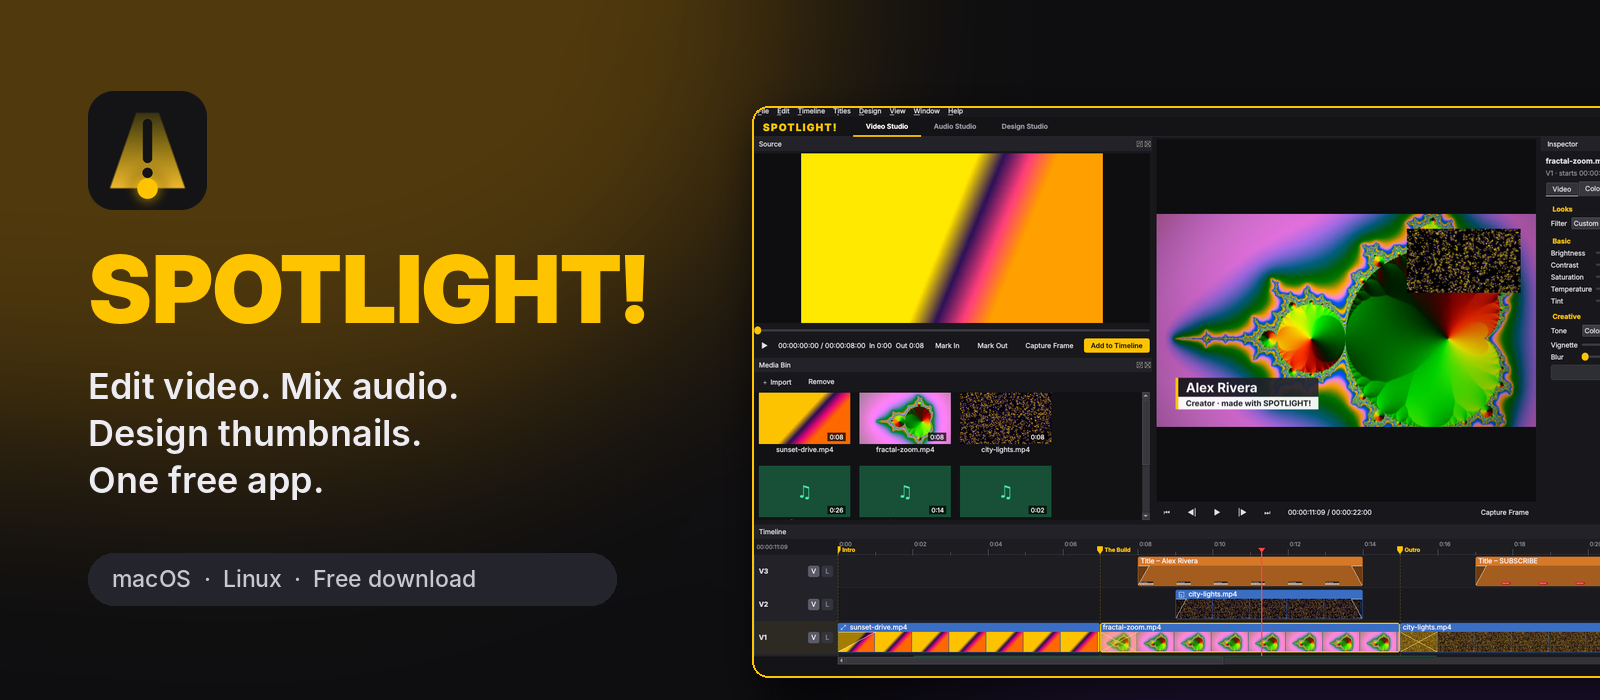
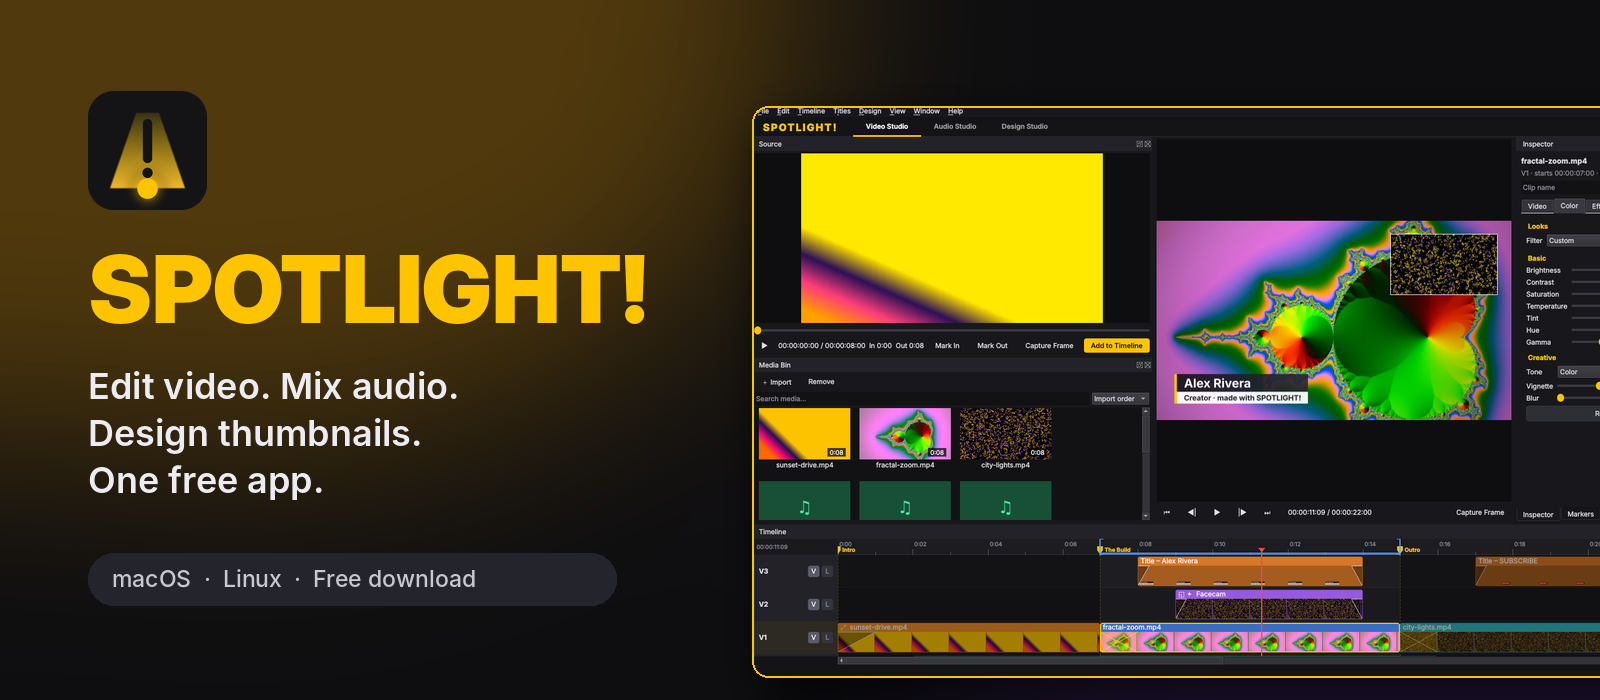
Version 0.3.0: docs, site and screenshots for the 50 new features
Also fixes invalid escapes in the entrance-animation FFmpeg expressions.

Claude-Session: https://claude.ai/code/session_011LJoQWnDZ6EukKVCGGmetC

diff --git a/docs/index.html b/docs/index.html
@@ -91,11 +91,13 @@ code { background: #22222a; padding: 2px 6px; border-radius: 6px; font-size: 13p
         <h3>🎬 Video Studio</h3>
         <ul class="feat">
           <li>Multitrack timeline with insert, overwrite, ripple and razor edits</li>
+          <li>Pro keys: ripple trim (Q/W), In/Out with lift &amp; extract, J/K/L shuttle, match frame</li>
           <li>Layered compositing: picture-in-picture, split screen and overlays</li>
           <li>16 transitions: dissolves, wipes, slides, iris and zoom</li>
           <li>Titles and lower thirds in 8 styles, plus SRT captions</li>
           <li>Speed 0.1×–8×, reverse and freeze frame</li>
           <li>One-click looks, color controls, green screen and Ken Burns</li>
+          <li>Effects: blur fill for vertical clips, cinema bars, grain, pixelate, PIP borders, slide &amp; pop entrances</li>
           <li>Auto-Clip: finds the best moments in long videos and VODs and exports them as Shorts</li>
           <li>Remove silences, scene detection, beat markers, auto reframe to 9:16</li>
         </ul>
@@ -110,7 +112,8 @@ code { background: #22222a; padding: 2px 6px; border-radius: 6px; font-size: 13p
         <ul class="feat">
           <li>Waveform timeline and mixer with volume, pan, mute and solo</li>
           <li>Denoise, noise gate, de-esser, EQ, compressor and limiter</li>
-          <li>Voice changer, reverb and echo</li>
+          <li>Voice changer, telephone, chorus, filters, reverb and echo</li>
+          <li>Tempo (BPM) detection, loudness meter and stem export</li>
           <li>Auto-ducking: the music drops under your voice automatically</li>
           <li>Record audio from any mic, with a live level meter, count-in and unlimited takes</li>
           <li>Loudness targets for YouTube (−14 LUFS) and podcasts (−16 LUFS)</li>
@@ -127,7 +130,8 @@ code { background: #22222a; padding: 2px 6px; border-radius: 6px; font-size: 13p
           <li>Layers of images, text, shapes and brush drawings</li>
           <li>Blend modes, drop shadow, outer glow and stroke</li>
           <li>Background removal, crop, fade masks, hue, blur and B&amp;W</li>
-          <li>Thumbnail templates and YouTube safe-zone guides</li>
+          <li>8 thumbnail templates, smart resize and YouTube safe-zone guides</li>
+          <li>Gradient text, photo tint, speech bubbles, zoom, pan and smart snapping</li>
           <li>Grab any video frame, and send any design back to the timeline</li>
         </ul>
       </div>
@@ -145,7 +149,9 @@ code { background: #22222a; padding: 2px 6px; border-radius: 6px; font-size: 13p
       <div class="card"><b>📱 Shorts-ready</b><span>Auto Reframe turns a 16:9 edit into 9:16, 1:1 or 4:5. Export presets cover YouTube, TikTok, Reels and Instagram.</span></div>
       <div class="card"><b>🎵 Cut on the beat</b><span>Drop beat markers at your song's BPM, or tap the tempo, and clips snap to them.</span></div>
       <div class="card"><b>👀 The preview matches the export</b><span>The monitor composites tracks, looks, keys and transitions exactly as the renderer does.</span></div>
-      <div class="card"><b>💾 Never lose work</b><span>Autosave, crash recovery, unlimited undo and automatic media relinking.</span></div>
+      <div class="card"><b>💾 Never lose work</b><span>Autosave, crash recovery, unlimited undo, automatic media relinking and the last 10 saves kept as backups.</span></div>
+      <div class="card"><b>📑 YouTube chapters</b><span>Drop markers while you edit and copy a ready-made chapter list into your video description.</span></div>
+      <div class="card"><b>🔎 Command palette</b><span>Press Ctrl+K and type: every command in the app is one search away.</span></div>
       <div class="card"><b>⌨ Your shortcuts</b><span>Remap every shortcut and save custom panel layouts for each studio.</span></div>
     </div>
   </div>

diff --git a/tools/screenshots.cpp b/tools/screenshots.cpp
@@ -186,6 +186,11 @@ int main(int argc, char *argv[])
         pc->transform.x = 0.31;
         pc->transform.y = -0.28;
         pc->fadeIn = pc->fadeOut = 300 * kUsPerSecond / 1000;
+        pc->fx.border = 0.012;
+        pc->name = QStringLiteral("Facecam");
+        pc->colorLabel = 7;
+        d.clipById(v1a)->colorLabel = 2;
+        d.clipById(v1c)->colorLabel = 5;
         const int v3 = d.addTrack(TrackType::Video, QStringLiteral("V3"));
         const QUuid lt = timeline::placeMedia(d, lowerThird.id, v3, 8 * kUsPerSecond, 0, 6 * kUsPerSecond);
         d.clipById(lt)->fadeIn = d.clipById(lt)->fadeOut = 300 * kUsPerSecond / 1000;
@@ -229,6 +234,8 @@ int main(int argc, char *argv[])
         timeline::toggleMarker(d, 0, 0, QStringLiteral("Intro"));
         timeline::toggleMarker(d, 7 * kUsPerSecond, 0, QStringLiteral("The Build"));
         timeline::toggleMarker(d, 15 * kUsPerSecond, 0, QStringLiteral("Outro"));
+        d.inPoint = 7 * kUsPerSecond;
+        d.outPoint = 15 * kUsPerSecond;
     });
 
     // ---- Design: capture a frame, apply a template, write our own copy ----

diff --git a/src/core/exporter.cpp b/src/core/exporter.cpp
@@ -204,8 +204,8 @@ MotionExpr motionExpr(Motion m, TimeUs duration)
     case Motion::SlideInUp:
     case Motion::PopIn: {
         // Mirrors motionAt(): e0 = linear progress, rem = (1-e0)^3 = 1 - eased.
-        const QString e0 = QStringLiteral("min(max(t/%1\,0)\,1)").arg(num(kEntranceSeconds));
-        const QString rem = QStringLiteral("pow(1-%1\,3)").arg(e0);
+        const QString e0 = QStringLiteral("min(max(t/%1\\,0)\\,1)").arg(num(kEntranceSeconds));
+        const QString rem = QStringLiteral("pow(1-%1\\,3)").arg(e0);
         if (m == Motion::SlideInLeft)
             e.fx = QStringLiteral("(-%1)").arg(rem);
         else if (m == Motion::SlideInRight)
@@ -213,7 +213,7 @@ MotionExpr motionExpr(Motion m, TimeUs duration)
         else if (m == Motion::SlideInUp)
             e.fy = rem;
         else
-            e.zoom = QStringLiteral("if(lt(%1\,0.7)\,0.6+0.5*%1/0.7\,1.1-0.1*(%1-0.7)/0.3)").arg(e0);
+            e.zoom = QStringLiteral("if(lt(%1\\,0.7)\\,0.6+0.5*%1/0.7\\,1.1-0.1*(%1-0.7)/0.3)").arg(e0);
         break;
     }
     }

diff --git a/README.md b/README.md
@@ -22,6 +22,12 @@ mix its audio, then design its thumbnail, all in **one project**.
 ### 🎬 Video Studio (Premiere / CapCut / Filmora)
 - **Multitrack timeline** with move, trim, split (razor), ripple delete, **insert edits**, **close gaps**,
   snapping, linked audio/video, copy/paste/duplicate and markers.
+- **Pro editing keys:** ripple trim to the playhead (`Q`/`W`), jump between edit points (`↑`/`↓`), **In/Out
+  points** (`I`/`O`) with **lift** and **extract**, one-frame **nudge**, **match frame** (`F`), **J/K/L shuttle**,
+  **loop playback** and **go to timecode** (`Ctrl+G`).
+- **Organize clips:** color labels, clip names, enable/disable (`Shift+E`), **replace clip** with bin media and
+  **paste attributes** (look, transform, effects, audio) onto many clips at once.
+- **Markers panel:** rename, jump and delete markers, and turn them into **YouTube chapters** for your description.
 - **Layered compositing.** Upper tracks sit on top of lower ones, so you can do **picture-in-picture**,
   **split screen**, overlays and logos.
 - **Transform** any clip: scale, position, rotation, opacity, flip and crop. One-click PIP and split-screen layouts.
@@ -33,6 +39,9 @@ mix its audio, then design its thumbnail, all in **one project**.
 - **Looks / filters:** Warm, Cool, Vivid, Cinematic, Vintage, Faded, Moody, Dreamy, B&W, Noir and Sepia. You can
   also fine-tune brightness, contrast, saturation, temperature, tint, vignette and blur.
 - **Chroma key** (green and blue screen), **Ken Burns** zoom and pan, and **stabilization**.
+- **Effects:** sharpen, film grain, pixelate (censor), invert, **cinema bars**, hue and gamma, plus **blur fill**
+  (the blurred background behind vertical clips) and a **border** for picture-in-picture.
+- **Entrance animations:** slide in from the left, right or bottom, and pop in.
 - **Auto-Clip for videos and stream VODs:** import a long video and SPOTLIGHT! finds the moments worth clipping
   (big reactions, hype, laughter, fast action) on its own. Review the clips with thumbnails and a preview, then
   add them to the timeline as a highlight reel or export each one, ready for Shorts, TikTok and Reels as vertical
@@ -41,35 +50,48 @@ mix its audio, then design its thumbnail, all in **one project**.
   (BPM or tap tempo) and **Auto Reframe** to 9:16, 1:1 or 4:5 for Shorts, Reels and TikTok.
 - The preview **matches the export**. The Program Monitor composites tracks, looks, keys and transitions the same
   way the renderer does.
-- **Export presets:** YouTube 1080p/4K, Shorts/Reels/TikTok, Instagram, H.265 archive, WebM, podcast MP3 and
-  WAV. Includes loudness normalization to −14 / −16 LUFS.
+- **Export presets:** YouTube 1080p/4K, Shorts/Reels/TikTok, Instagram, H.265 archive, WebM, **animated GIF**,
+  podcast MP3 and WAV. Includes loudness normalization to −14 / −16 LUFS. Export the whole timeline or just the
+  **In/Out range**.
 
 ### 🎚 Audio Studio (Logic Pro)
 - Waveform timeline with a **mixer**: volume, pan, mute and solo.
 - Per-track effects: **dialogue cleanup** (denoise), **noise gate**, **de-esser**, **3-band EQ**, **compressor**,
-  **voice changer** (pitch shift), **reverb**, **echo/delay** and **limiter**.
+  **voice changer** (pitch shift), **telephone/radio**, **chorus**, **high-pass and low-pass filters**, **reverb**,
+  **echo/delay**, **mono** and **limiter**.
+- **Detect tempo (BPM)** from a music clip and drop bar markers on the beat.
+- **Loudness meter:** measures the whole mix (integrated LUFS, range, true peak) against YouTube, podcast and
+  broadcast targets.
+- **Export stems:** every audio track as its own WAV. **Quick fades** on any selection (`Ctrl+Shift+D`).
 - **Auto-ducking:** music dips automatically under voice tracks, and you can see and hear it while editing.
 - **Record audio** from any mic or interface (**● Record** in the Audio Studio, or `Ctrl+R`). It has a live
   level meter, a count-in, play-along, and unlimited takes on the track you choose. Takes are saved as lossless WAV.
-- One-click presets: Podcast Voice, Music Bed, Deep Voice, Chipmunk and Big Hall. Plus clip gain, fades and
-  **Normalize**.
+- One-click presets: Podcast Voice, Music Bed, Deep Voice, Chipmunk, Big Hall, Phone Call and Underwater. Plus clip
+  gain, fades and **Normalize**.
 
 ### 🎨 Design Studio (Photoshop)
-- Layers of images, text, shapes (rectangle, ellipse, triangle, star, arrow, line) and **brush drawings**.
+- Layers of images, text, shapes (rectangle, ellipse, triangle, star, arrow, line, **speech bubble**, **burst**)
+  and **brush drawings**.
+- **Zoom and pan** the canvas, **smart snapping** to edges, centres and other layers, and arrow-key nudging.
 - **Blend modes:** Multiply, Screen, Overlay, Soft Light, Difference and more. Layers can be flipped, locked and
   aligned.
 - **Layer effects:** drop shadow, outer glow, and **stroke**. The classic white outline around a cut-out subject is
   one slider.
 - **Remove background** from solid or studio backdrops. Image adjustments include crop, hue, blur, B&W, invert and
   **fade masks**.
-- Text with outline, shadow, italic, letter spacing, alignment and caption-style background boxes. Shapes can use
-  gradient fills.
-- **Thumbnail templates**, safe-zone guides (including the YouTube timestamp corner), canvas presets for
-  thumbnails, channel art, posters and stories.
+- Text with outline, shadow, **gradient fill**, italic, letter spacing, alignment and caption-style background
+  boxes. Shapes can use gradient fills, and photos can get a one-color **tint** (duotone).
+- **Eight thumbnail templates** (Reaction, Tutorial, Podcast, Versus, Gaming, Vlog, Before/After, Top 10),
+  safe-zone guides (including the YouTube timestamp corner), and canvas presets for thumbnails, channel art,
+  posters and stories. **Smart resize** refits your layout when you switch, say, from a thumbnail to a Shorts cover.
 - **Grab any video frame** as a layer, and send any design **to the timeline** as an intro or end card.
 
 ### 🔗 One connected project
-- **Autosave** and crash **recovery**, undo/redo for everything, and relinking of moved media.
+- **Autosave** and crash **recovery**, undo/redo for everything, relinking of moved media, and the last 10 saved
+  versions kept in a **Backups** folder next to your project.
+- **Command palette** (`Ctrl+K`): type to find and run any command.
+- **Media Bin search and sort**, dimmed unused media, **Remove Unused Media**, **Show in Folder**, and
+  **Collect Files** to copy a project and all its media into one folder.
 - **Customizable layouts** and **keyboard shortcuts**.
 - Bundled FFmpeg, so there is nothing else to install.
 
@@ -100,6 +122,13 @@ Get the latest build from the **[Releases page](https://github.com/NyteRyzer/spo
 | Export frame as image | `Ctrl+Shift+E` | Place design on timeline | `Ctrl+Shift+T` |
 | Capture program frame to design | `Ctrl+Shift+F` | Show guides | `G` |
 | Video / Audio / Design studio | `Ctrl+1` / `2` / `3` | Add text layer | `Ctrl+T` |
+| **Command palette** | `Ctrl+K` | Go to timecode | `Ctrl+G` |
+| Ripple trim start / end to playhead | `Q` / `W` | Previous / next edit point | `↑` / `↓` |
+| Mark In / Out / clip | `I` / `O` / `X` | Lift / extract In–Out | `;` / `'` |
+| Shuttle back / stop / forward | `J` / `K` / `L` | Loop playback | `Ctrl+L` |
+| Nudge clips one frame | `Alt+←` / `Alt+→` | Match frame | `F` |
+| Enable / disable clip | `Shift+E` | Quick fade in/out | `Ctrl+Shift+D` |
+| Copy / paste attributes | `Ctrl+Alt+C` / `Ctrl+Alt+V` | Clear In/Out | `Ctrl+Shift+X` |
 
 (`Ctrl` is `⌘` on macOS. Every shortcut can be changed in **Edit → Keyboard Shortcuts**.)
 
